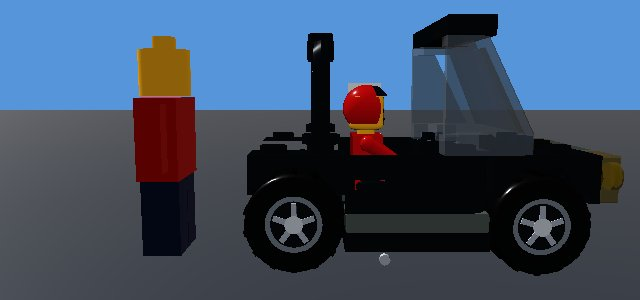
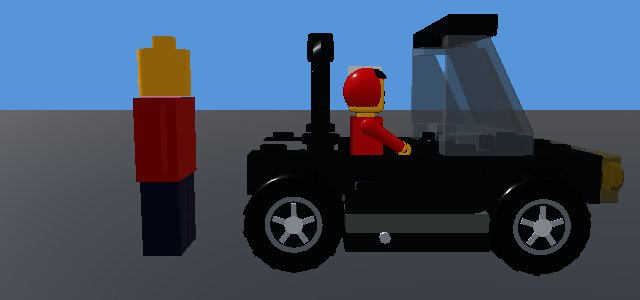
size-2: driver sunk check (torso >=0.3 m above door line on open cockpits), driver lift table RSZ.D, audit fit; ratio probe
Claude-Session: https://claude.ai/code/session_01RCJoMTxBMAeSSfQqHs1yRP

diff --git a/src/98sz2_ride_audit.js b/src/98sz2_ride_audit.js
@@ -6,27 +6,38 @@ RSZ.CL={car:[4,5],van:[5,6],bus:[11,13],truck:[8,12],bike:[1.8,2.6],limo:[6,8]};
 RSZ.clsOf=(S,L)=>{const n=(S.n||'')+' '+S.id;// L = the ride's natural length (a 'truck' set under 6 m is a small van, not a 8-12 m truck)
  return/\bbus\b/i.test(n)?'bus':/limo/i.test(n)?'limo':/bike(?! hauler)|go-?kart/i.test(n)?'bike':/box truck|big rig|flatbed|logger|snowplow|recycl|dump truck|cement|mixer|loader|tipper truck|hauler|dig master|crane|cargo truck|fire truck|tow truck|bulldozer/i.test(n)&&!(L<6)?'truck'
  :/\bvan\b|pickup|truck|lorry|dumper|tractor|camper|ambulance|tow rig|tanker|sweeper|wagon|loader|mixer|rig\b|hauler/i.test(n)?'van':'car'};
-RSZ.open=S=>/bike|kart|tractor|dumper|construction|dozer|loader|rod\b|convertible|roadster|racer|f1|formula|sprint|rally|monster/i.test((S.n||'')+' '+S.id);
+RSZ.open=S=>/race car|bike|kart|tractor|dumper|construction|dozer|loader|rod\b|convertible|roadster|racer|f1|formula|sprint|rally|monster/i.test((S.n||'')+' '+S.id);
+RSZ.sunkOK=S=>!RSZ.open(S)||/dozer|loader|tractor|dumper|construction|monster|bike|kart/i.test((S.n||'')+' '+S.id);// no door line to measure (tall cab/chassis sides, rider on a bike)
 RSZ.band=c=>{const r=RSZ.CL[c];return[r[0]*.8,r[1]*1.2]};
 // one ride: {L,W,H,stick,roof}; stick = how far the driver's head is above the roof (m, <0 = under it); null = no driver
-RSZ.meas=async function(S,f){const b0=gbBuild()||GB.d,F0=RSZ.F[S.id];try{const m=LD_probe(()=>[].concat(GAR_arr(S.car())));if(m&&m.length)await LD_need(m);
-  if(f)RSZ.F[S.id]=f;const B=G9C_bricks(S,'car'),hasD=B.some(b=>b&&b.t==='drvM'&&b.y>-90);
+RSZ.meas=async function(S,f,dy){const b0=gbBuild()||GB.d,F0=RSZ.F[S.id],D0=RSZ.D[S.id];try{const m=LD_probe(()=>[].concat(GAR_arr(S.car())));if(m&&m.length)await LD_need(m);
+  if(f)RSZ.F[S.id]=f;if(dy!=null)RSZ.D[S.id]=dy;const B=G9C_bricks(S,'car'),hasD=B.some(b=>b&&b.t==='drvM'&&b.y>-90);
   const mk=(B,S2)=>{RSZ.S=S2;const g=shipMesh(gbTeam(TEAMS[teamIdx],Object.assign({},b0,{on:true,bricks:B})));scene.add(g);SC_ship(g,true);CR_fx({boatK:0},g.userData);g.userData.m.updateMatrixWorld(true);return g};
   const top=g=>{const bb=new THREE.Box3();g.userData.m.traverse(o=>{if(!o.isMesh||o.userData.r)return;for(let q=o;q&&q!==g.userData.m;q=q.parent)if(!q.visible)return;if(!o.geometry.boundingBox)o.geometry.computeBoundingBox();bb.union(o.geometry.boundingBox.clone().applyMatrix4(o.matrixWorld))});return bb.max.y};
   const g=mk(B,S);CR_PS.k='';const d=BC_dims(g.userData),t1=top(g);let st=null,roof=null;
-  if(hasD){const g2=mk(B.map(b=>b&&b.t==='drvM'?Object.assign({},b,{y:-99,hide:1}):b),{id:S.id});roof=top(g2);st=+(t1-roof).toFixed(2);scene.remove(g2)}
-  scene.remove(g);return d&&{L:+d.L.toFixed(2),W:+d.W.toFixed(2),H:+d.H.toFixed(2),stick:st,roof:roof&&+roof.toFixed(2)}
- }finally{RSZ.S=null;if(f){if(F0)RSZ.F[S.id]=F0;else delete RSZ.F[S.id]}}};
+  let sink=null,dTop=null;
+  if(hasD){const g2=mk(B.map(b=>b&&b.t==='drvM'?Object.assign({},b,{y:-99,hide:1}):b),{id:S.id});roof=top(g2);st=+(t1-roof).toFixed(2);
+   // the driver's own vertices = the tail of each merged mesh (SZ_add appends him last): his box; torso top = head top - 0.6 m (head+neck of a 1.96 m minifig)
+   const A=g.userData.gbM||[],A2=g2.userData.gbM||[],db=new THREE.Box3(),v=new THREE.Vector3();
+   A.forEach((o,i)=>{const o2=A2[i];if(!o2||o.material===CR_GM)return;const p=o.geometry.attributes.position,n2=o2.geometry.attributes.position.count;for(let k=n2;k<p.count;k++){v.fromBufferAttribute(p,k).applyMatrix4(o.matrixWorld);db.expandByPoint(v)}});
+   if(!db.isEmpty()){dTop=db.max.y;const tt=db.max.y-.6,cx=(db.min.x+db.max.x)/2,cz=(db.min.z+db.max.z)/2,rc=new THREE.Raycaster(),M2=A2.filter(o=>o.material!==CR_GM),bb2=new THREE.Box3();M2.forEach(o=>{o.updateMatrixWorld(true);bb2.union(new THREE.Box3().setFromObject(o))});
+    const hit=(x,z)=>{rc.set(new THREE.Vector3(x,60,z),new THREE.Vector3(0,-1,0));const h=rc.intersectObjects(M2,false)[0];return h?h.point.y:0},hw=(bb2.max.x-bb2.min.x)/2*.8,mx=(bb2.max.x+bb2.min.x)/2;
+    const cen=hit(cx,cz),door=Math.max(...[-.3,-.15,0,.15,.3].flatMap(dz=>[.65,.8,.95].flatMap(q=>[-1,1].map(sg=>hit(mx+sg*hw/.8*q,cz+dz)))));// door line = the highest side wall of the outer 35 % beside his seat
+    sink=cen>tt-.1?null:+(tt-door).toFixed(2)}}// sink = torso top above the door line; null = closed cab (a roof over him)
+  scene.remove(g);return d&&{L:+d.L.toFixed(2),W:+d.W.toFixed(2),H:+d.H.toFixed(2),stick:st,roof:roof&&+roof.toFixed(2),sink,dTop:dTop&&+dTop.toFixed(2)}
+ }finally{RSZ.S=null;if(dy!=null){if(D0)RSZ.D[S.id]=D0;else delete RSZ.D[S.id]}if(f){if(F0)RSZ.F[S.id]=F0;else delete RSZ.F[S.id]}}};
 RSZ.sets=()=>GAR_SETS.filter(s=>s.car&&!/boat/.test(s.id));
 // audit: [{id,n,cls,L,stick,ok,why}] ; fit=true also computes the factor that would pass (field f)
-RSZ.audit=async function(fit){const out=[];for(const S of RSZ.sets()){const m=await RSZ.meas(S);if(!m)continue;const L1=m.L/(RSZ.F[S.id]||1),c=RSZ.clsOf(S,L1),[lo,hi]=RSZ.band(c),R=RSZ.CL[c];const lim=RSZ.open(S)?.75:.1;
-  const why=c==='bus'&&m.L<R[0]?'short':m.L<lo?'short':m.L>hi?'long':m.stick!=null&&m.stick>lim?'head':'';const o={id:S.id,n:S.n,cls:c,L:m.L,H:m.H,stick:m.stick,ok:!why,why};
+RSZ.audit=async function(fit){const out=[];for(const S of RSZ.sets()){const m=await RSZ.meas(S);if(!m)continue;const L1=m.L/(RSZ.F[S.id]||1),c=RSZ.clsOf(S,L1),[lo,hi]=RSZ.band(c),R=RSZ.CL[c];const lim=RSZ.open(S)?.75:.1,sk=!RSZ.sunkOK(S)&&m.sink!=null&&m.sink<.3;// sunk check: open cockpits only (a cab roof / cargo wall beside a van's driver is not a door)
+  const why=c==='bus'&&m.L<R[0]?'short':m.L<lo?'short':m.L>hi?'long':m.stick!=null&&m.stick>lim?'head':sk?'sunk':'';const o={id:S.id,n:S.n,cls:c,L:m.L,H:m.H,stick:m.stick,sink:m.sink,ok:!why,why};
   if(fit&&why){let f=c==='bus'&&m.L<R[0]?R[0]/L1:m.L<lo?R[0]/L1:m.L>hi?R[1]/L1:RSZ.F[S.id]||1;const cl=v=>Math.min(1.7,Math.max(.6,v));f=cl(f);let x=await RSZ.meas(S,f);
-   for(let i=0;i<14&&x&&x.stick!=null&&x.stick>lim&&x.L<hi*1.1&&f<1.7;i++){f=cl(f+.05);x=await RSZ.meas(S,f)}o.f=+f.toFixed(2);o.after=x;o.ok2=!!x&&x.L>=lo&&x.L<=hi&&(x.stick==null||x.stick<=lim)}
+   for(let i=0;i<14&&x&&x.stick!=null&&x.stick>lim&&x.L<hi*1.1&&f<1.7;i++){f=cl(f+.05);x=await RSZ.meas(S,f)}
+   let dy=RSZ.D[S.id]||0;for(let i=0;i<3&&!RSZ.sunkOK(S)&&x&&x.sink!=null&&x.sink<.3&&(x.stick==null||x.stick<=lim);i++){dy++;x=await RSZ.meas(S,f,dy)}
+   o.f=+f.toFixed(2);o.dy=dy;o.after=x;o.ok2=!!x&&x.L>=lo&&x.L<=hi&&(x.stick==null||x.stick<=lim)&&(RSZ.sunkOK(S)||x.sink==null||x.sink>=.3)}
   out.push(o)}return out};
 // rv:2026-10-13 checklist GO ('v90k/rv-scale'): measures the 6 rides that were worst before size-2, says the verdict, then opens the garage on the first
 RSZ.WORST=['t_v6607_1','t_v6609_1','t_v6608_1','t_v6505_1','t_v6501_1','t_bus'];
 function RSZ_go(){(async()=>{const bad=[];for(const id of RSZ.WORST){const S=GAR_set(id),m=await RSZ.meas(S);if(!m)continue;const c=RSZ.clsOf(S,m.L/(RSZ.F[id]||1)),[lo,hi]=RSZ.band(c);
-  if(m.L<lo||m.L>hi||m.stick!=null&&m.stick>(RSZ.open(S)?.75:.1))bad.push(S.n+' '+m.L+' m')}
+  if(m.L<lo||m.L>hi||m.stick!=null&&m.stick>(RSZ.open(S)?.75:.1)||!RSZ.sunkOK(S)&&m.sink!=null&&m.sink<.3)bad.push(S.n+' '+m.L+' m')}
  RSZ.res={bad};try{say('',bad.length?'❌ out of class: '+bad.join(' · '):'✅ the 6 worst rides are in class · look at the driver in the garage',4)}catch(e){}
  try{if(!RO.ch&&!RO.sp){gbOpen();setTimeout(()=>GAR_select(RSZ.WORST[0]),700)}}catch(e){}})();return'📍 Measuring 6 rides…'}

diff --git a/src/98sz_ride_scale.js b/src/98sz_ride_scale.js
@@ -19,7 +19,8 @@ RSZ.F={t_viola:0.7,t_bus:1.23,t_v4914_1:1.2,t_v1517_1:1.25,t_v604_1:1.28,t_v606_
   RSZ.S=null;// RSZ.S: audit override of the selected ride
 GB_PC.szF={n:'Class scale',w:1,d:1,h:1,ic:'📏',hide:1};
 function SZ_f(B){for(const b of B||[])if(b&&b.t==='szF')return b.f||1;return 1}
-function SZ_fac(S,B){if(!Array.isArray(B)||!B.length)return B;const A=B.filter(b=>!(b&&b.t==='szF')),f=S&&RSZ.F[S.id];return f&&f!==1?A.concat([{t:'szF',x:0,z:0,y:-99,r:0,m:0,c:'#000000',hide:1,f}]):A}
+RSZ.D={t_v1517_1:1,t_v6501_1:1};// ride id -> plates to lift the driver (drvM y) so his torso shows above the door line (rv-scale 'sunk' check); generated by RSZ.audit(true)
+function SZ_fac(S,B){if(!Array.isArray(B)||!B.length)return B;const dy=S&&RSZ.D[S.id],A=B.filter(b=>!(b&&b.t==='szF')).map(b=>dy&&b&&b.t==='drvM'&&b.y>-90&&!b.dl?Object.assign({},b,{y:b.y+dy,dl:1}):b),f=S&&RSZ.F[S.id];return f&&f!==1?A.concat([{t:'szF',x:0,z:0,y:-99,r:0,m:0,c:'#000000',hide:1,f}]):A}
 GB_geo=(f=>function(B){RSZ.cf=SZ_f(B);try{return f.apply(this,arguments)}finally{RSZ.cf=1}})(GB_geo);
 function SZ_k(B){let k=1,d=0;for(const b of B||[]){const t=b&&(b.t||b[0]);if(t==='drvM')d=1;else if(t==='szR'&&!d)k=RSZ.rk}return(d?RSZ.k:k)*SZ_f(B)}
 // the driver sits behind the steering wheel, 3 plates under it, facing the ride's front.

diff --git a/qa_dev3/ratio.js b/qa_dev3/ratio.js
@@ -1,0 +1,2 @@
+(async()=>{const F=OF_figBuild();const bb=new THREE.Box3().setFromObject(F.g);const h=bb.max.y-bb.min.y,sc=F.g.scale.y;const o={figH:+h.toFixed(2),scale:+sc.toFixed(2),ped:(typeof SC_K!=='undefined')?SC_K.ped:null};
+for(const id of['rod','t_su','t_sc_hy','t_rosso','t_papaya','t_taxi']){const m=await RSZ.meas(GAR_set(id));o[id]=m&&[m.H,+(h/m.H).toFixed(2)]}return o})()

diff --git a/qa_dev3/sink.js b/qa_dev3/sink.js
@@ -1,0 +1,1 @@
+(async()=>{const o=[];for(const id of['t_v6501_1','t_v6609_1','t_v4914_1']){const m=await RSZ.meas(GAR_set(id));o.push(id+' '+JSON.stringify(m))}return o})()

diff --git a/docs/MODULES.md b/docs/MODULES.md
@@ -76,7 +76,7 @@ Format: sections list top-level declarations (column 0; exact lines via find.sh)
 | 98ld | `98ld_run.js` | 5 | LDM runner (v89z: lazy per-model loading). models.js is now a small INDEX (tools/ld/mkmodels.py): the presets + placements of every data module (window.__LDQ, r |
 | 98ct | `98ct_city_lego.js` | 16 | CT (city-1, 2026-10-10). Alex: "now we have a big variety, we can include it in our city and replace buildings and cars". TRAFFIC: the procedural traffic kinds  |
 | 98sz | `98sz_ride_scale.js` | 8 | RSZ (size-1, 2026-10-10). Alex: "many of the big vehicles need better size". Two root causes, fixed here for every ride: 1. SC_ship (96_scale_qa.js) squeezed EV |
-| 98sz2 | `98sz2_ride_audit.js` | 4 | RSZ audit (size-2, 2026-10-13): measures EVERY garage ride (length/width/height in game metres, driver head vs roof) against its class and derives the per-ride  |
+| 98sz2 | `98sz2_ride_audit.js` | 6 | RSZ audit (size-2, 2026-10-13): measures EVERY garage ride (length/width/height in game metres, driver head vs roof) against its class and derives the per-ride  |
 | 98of | `98of_onfoot.js` | 50 | OF (v89a): ON FOOT P1 (docs/ON_FOOT_PLAN.md §4 P1). EXIT at a stop, the minifig steps out, the car stays parked; walk / run / jump with a floating left stick (t |
 | 98sh | `98sh_shadow.js` | 4 | SHB (v90k): soft blob shadows on the ground under the player car, city traffic, people and trees. One InstancedMesh, depth-write off, ~1 draw call. Cause of "no |
 | 99c | `99c_checklist.js` | 66 | CK: in-game TEST CHECKLIST (Alex 2026-10-08: "I will play, just include a check list inside the game update so I can validate"). OD_CHECKLIST = items per versio |
@@ -368,9 +368,9 @@ uses: 20(35), 93(22), 30(16), 98ld(15), 60(14), 92(13), 53(13), 10(10), 70(9), 9
 defines: RSZ SZ_f SZ_fac SZ_k SZ_add SZ_face __sz
 uses: 92(14), 96(12), 98ld(8), 20(6), 10(4), 98(4), 41(3), 98y(2), 98bc(2), 30(1)
 
-## 98sz2_ride_audit.js — 4 KB
+## 98sz2_ride_audit.js — 6 KB
 defines: RSZ_go
-uses: 98sz(35), 10(7), 98(4), 30(3), 20(2), 98ld(2), 93(2), 98y(1), 96(1), 98bc(1)
+uses: 98sz(48), 10(6), 98(4), 93(4), 20(3), 30(3), 98ld(2), 98y(1), 96(1), 98bc(1)
 
 ## 98of_onfoot.js — 50 KB
 defines: OF OF_R OF_STEP OF_WALK OF_RUN OF_G OF_JV OF_FIGH OF_NEAR OF_JV_MAX OF_JREACH OF_DG OF_drvGeo OF_drv OF_figBuild OF_figMake OF_figPose OF_cH OF_box OF_cars OF_edge OF_nearCar OF_dom OF_lbl0 OF_doorPlace OF_btns OF_canExit OF_door OF_ext OF_exit OF_enter OF_noW OF_bodyKids OF_poseCar OF_finishEnter OF_input OF_collide OF_walk OF_step OF_cam OF_v3 OF_lift OF_q OF_ax OF_bx OF_corners OF_gap OF_settle OF_reset OF_m1 OF_api OF_jack OF_jackEnd OF_jackStep OF_bubble OF_fleeStart OF_BUBP _ofBv OF_hudOver OF_bubPlace OF_fleeEnd OF_fleeStep OF_seat OF_crime OF_starStep OF_starHud OF_athPark1 OF_CAMK OF_CAMP OF_camYaw OF_camDrag OF_camDom OF_bcBody
